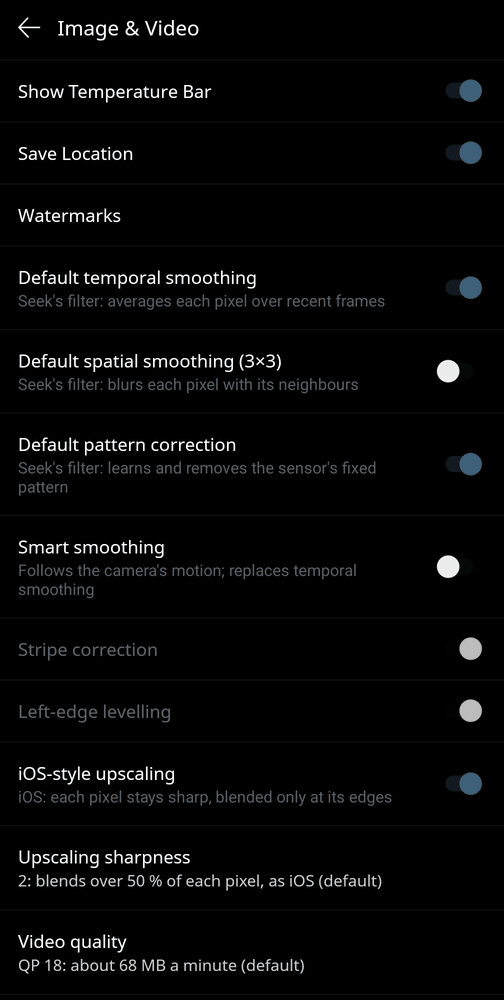
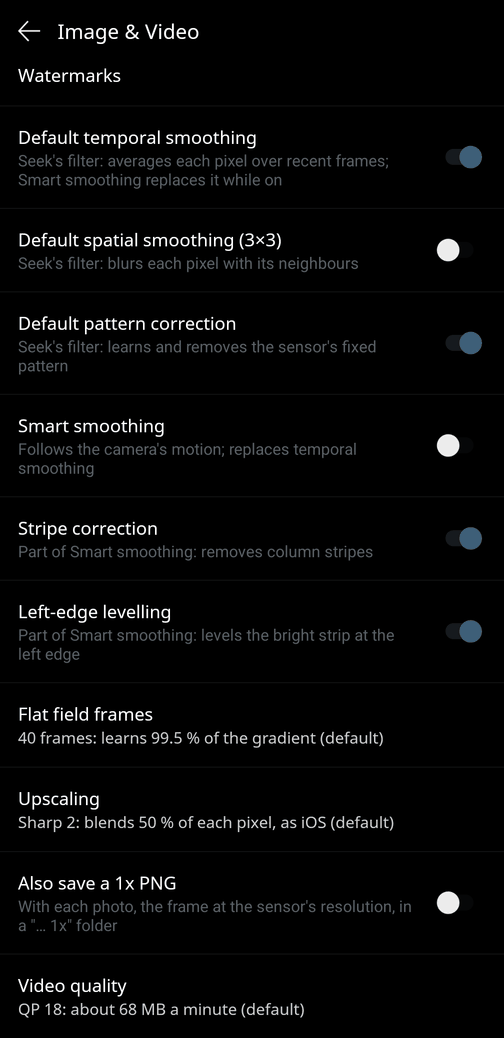
docs: the new settings, measured on the phone
sharp-scaling.md describes the Upscaling list and the kernels measured
on live-view screenshots and photos (Blocky: a clean step);
flat-field.md the frames setting, with the share learned per count and
the times on the Pixel; photo-1x.md the switch.  smoothing-settings.md
drops the greying and gets a new screenshot of the whole screen at its
defaults; README, CHANGELOG and versions.md follow.

Claude-Session: https://claude.ai/code/session_01XzKvNh8nF8GzrBgawbSF9H

diff --git a/README.md b/README.md
@@ -23,10 +23,10 @@ its own colour span.</sub>
 | | stock app | with seek-patch | patch |
 |---|---|---|---|
 | **Frame rate** | **15 fps** on screen: the live view redraws only when the phone's *own rear camera* delivers a frame, and the app runs that camera at 15 fps | **~28 fps**, every thermal frame (the Compact sends ~30) | `full_fps` |
-| **Upscaling** | plain bilinear: each sensor pixel is smeared across its whole width | iOS-style: each pixel stays sharp, blending only across the middle half; in Settings, iOS or Android and the sharpness | `sharp_scaling` |
+| **Upscaling** | plain bilinear: each sensor pixel is smeared across its whole width | iOS-style: each pixel stays sharp, blending only across the middle half; in Settings, *Smooth* (stock), *Sharp 1.5* – *8* or *Blocky* | `sharp_scaling` |
 | **Smoothing switches** | one "Image smoothing" switch, and *off* is the smoother picture: it adds a 3×3 blur, and the temporal smoothing stays on either way | in *Settings → Image & Video*, a switch per filter: temporal smoothing, 3×3 spatial smoothing, pattern correction, and Smart smoothing with its two options; the defaults are the stock picture | `smoothing_settings` (or, opt-in, `no_smoothing`: the old switch's *off* turns both smoothings off) |
 | **Photos** | JPEG, quality 100 but 4:2:0 colour; the PNG setting is hidden | lossless PNG (the app's own *Save Uncompressed*, turned on) | `png_photos` |
-| **Sensor pixels** | only the 1280×960 upscaled photo | also the frame at the sensor's resolution, PNG, no overlays, in `Pictures/Seek Thermal 1x/` | `photo_1x` |
+| **Sensor pixels** | only the 1280×960 upscaled photo | with *Also save a 1x PNG* on in Settings (off by default), also the frame at the sensor's resolution, PNG, no overlays, in `Pictures/Seek Thermal 1x/` | `photo_1x` |
 | **Video** | H.264 480×640 at a fixed 1.5 Mbit/s, **15 fps** (the phone camera's clock), mono 44.1 kHz 64 kbit/s sound | HEVC **960×1280** at constant quality (~50 dB PSNR; a *Video quality* setting), **every thermal frame**, stereo 48 kHz 256 kbit/s | `video_quality` |
 | **Microphone** | Android 11+: photos, videos and the gallery all ask for the microphone and drop the tap; after two denials none of them starts again | only starting a video asks, and the video then starts by itself; when Android won't ask again, a dialog offers the settings page or recording without sound | `mic_prompt` |
 | **Warm camera** | once the camera has warmed unevenly, every picture has a gradient (bright edges, dark middle), even of a uniform wall | a **Flat field** button: point at a uniform surface, tap, and the gradient is gone (14 °F across a wall → under 1 °F) | `flat_field` |
@@ -152,7 +152,7 @@ seek-patch doctor                       Java, the pinned apktool + uber-apk-sign
 | *(none)* | the default set — every patch but `debug_log` and `no_smoothing` — skipping those that do not apply to this version |
 | `-p NAME` | pick patches yourself (repeatable), e.g. `-p full_fps -p debug_log`; each must apply |
 | `--all` | every patch, `debug_log` included, but not `no_smoothing` (the alternative to `smoothing_settings`); each must apply |
-| `--sharpness N` | `sharp_scaling`'s blend width, 1/N of a pixel: `2` = iOS (default), `3`–`4` crisper, larger approaches visible pixels.  The default of the *Upscaling sharpness* setting |
+| `--sharpness N` | `sharp_scaling`'s blend width, 1/N of a pixel: `2` = iOS (default), `3`–`4` crisper, larger approaches visible pixels.  The default entry of the *Upscaling* setting |
 | `--video-codec hevc\|avc` | `video_quality`'s codec: HEVC (default; H.264 is the automatic fallback) or H.264 first, for players without HEVC |
 | `--video-qp N` | `video_quality`'s constant quantizer, 10 – 40: lower is better and bigger; `18` (default) ≈ 68 MB/min on a still scene.  The default of the *Video quality* setting |
 | `--side-by-side` | new package name (`<original>.patched`) and label, so it installs next to the store app; `--package`, `--label` to choose them |
@@ -228,10 +228,10 @@ also drops the manifest attributes that make Android require the splits.
 - [`smoothing_settings`](docs/smoothing-settings.md) — adds the switches to the app's own settings screen; after the app sends the smoothing preset, makes the *on* preset the base and sets the temporal, spatial and pattern-correction stages from the switches.
 - [`no_smoothing`](docs/smoothing-switch.md) (opt-in) — after the app sends the smoothing preset, clears the temporal and spatial filter stages when the switch is off.
 - [`png_photos`](docs/png-photos.md) — turns on the app's hidden *Save Uncompressed* setting.
-- [`photo_1x`](docs/photo-1x.md) — keeps the photo method's sensor-sized frame and writes it once the photo is saved.
+- [`photo_1x`](docs/photo-1x.md) — keeps the photo method's sensor-sized frame and writes it once the photo is saved, when the *Also save a 1x PNG* setting is on.
 - [`video_quality`](docs/video-quality.md) — picks and configures the encoder, hands it every thermal frame, records 48 kHz stereo.  How the QP was chosen is in there; the setting picks it per recording.
 - [`mic_prompt`](docs/mic-prompt.md) — routes the app's microphone check and request through a small helper, and starts the video once the camera runs again.
-- [`flat_field`](docs/flat-field.md) — adds the button; a tap has the library's gradient stage learn its correction map from the next 40 frames, which it otherwise does only for frames that already look flat.
+- [`flat_field`](docs/flat-field.md) — adds the button; a tap has the library's gradient stage learn its correction map from the next 40 frames (the *Flat field frames* setting: 5 – 60), which it otherwise does only for frames that already look flat.
 - [`smart_smoothing`](docs/smart-smoothing.md) — adds the button and a small native library of seek-patch's own: it hooks the image library's first filter, which then runs without its temporal smoothing, and filters its output in place.
 - [`resume_fix`](docs/resume-fix.md) — destroys the live view's EGL surface before the app drops it on pause.
 - [`debug_log`](docs/debug-log.md) — gives the SDK's stripped log methods a body.
@@ -300,7 +300,7 @@ at three times the Compact sensor's resolution, so no sensor pixel loses its col
 Patch the new version when there is one.
 
 **Smart smoothing or Seek's smoothing?**  *Smart smoothing on* replaces only the temporal filter with
-seek-patch's; *Default temporal smoothing* is greyed out meanwhile.  Spatial smoothing and pattern
+seek-patch's; *Default temporal smoothing* then has no effect.  Spatial smoothing and pattern
 correction keep their own switches: for the most detail, leave spatial smoothing off (the default)
 and turn Smart smoothing on.  With `no_smoothing` instead of `smoothing_settings`, the 3×3 blur
 follows the old switch.

diff --git a/docs/smoothing-settings.md b/docs/smoothing-settings.md
@@ -11,20 +11,21 @@ presets of the image library's filters, and *off* is the smoother picture (see
 | **Default spatial smoothing (3×3)** | off | Seek's filter (`aslpf`): blurs each pixel with its neighbours |
 | **Default pattern correction** | on | Seek's filter (`sbnuc`): learns and removes the sensor's fixed pattern |
 | **Smart smoothing** | off | seek-patch's filter: follows the camera's motion; replaces temporal smoothing |
-| **Stripe correction** | on | Smart smoothing's column-stripe correction |
-| **Left-edge levelling** | on | Smart smoothing's levelling of the strip at the screen's left edge |
+| **Stripe correction** | on | part of Smart smoothing: removes column stripes |
+| **Left-edge levelling** | on | part of Smart smoothing: levels the bright strip at the left edge |
 
 <img alt="Settings, Image &amp; Video: the switches and lists seek-patch adds, at their defaults" src="images/image-video-settings.png" width="336" align="right">
 
 "Default" marks Seek's own algorithms.  The defaults are the stock app with *Image smoothing* on, so
 nothing changes until a switch is touched.  The last three appear only when
-[`smart_smoothing`](smart-smoothing.md) is in the app too (2.2.3 – 2.3.4).  *Default temporal
-smoothing* is greyed out while Smart smoothing is on, because Smart smoothing replaces it; *Stripe
-correction* and *Left-edge levelling* are greyed out while it is off.  The *Smart smoothing* switch
+[`smart_smoothing`](smart-smoothing.md) is in the app too (2.2.3 – 2.3.4).  No switch is greyed
+out, because the app's switch class draws a disabled *on* much like *off*: *Default temporal
+smoothing* has no effect while Smart smoothing is on (Smart smoothing replaces it, and its summary
+says so), and *Stripe correction* and *Left-edge levelling* only act while it is on.  The *Smart smoothing* switch
 and the button at the top left of the camera screen are one setting: either moves the other.
-Changes apply from the next frame.  The old *Image smoothing* switch is hidden.  The screenshot also
-shows the settings of [`sharp_scaling`](sharp-scaling.md#settings) and
-[`video_quality`](video-quality.md#setting).
+Changes apply from the next frame.  The old *Image smoothing* switch is hidden.  Below them come the settings of
+[`flat_field`](flat-field.md#setting), [`sharp_scaling`](sharp-scaling.md#settings),
+[`photo_1x`](photo-1x.md) and [`video_quality`](video-quality.md#setting).
 
 ## What the library does with "Image smoothing"
 
@@ -88,7 +89,9 @@ The Image & Video fragment is found by behaviour: the one `PreferenceFragment` t
 after its `addPreferencesFromResource`, `seekpatch.Settings.screen` hides the old switch and appends
 the new ones.  The old switch is the last item of the screen in every release, so they take its
 place.  They are instances of the app's own switch class, the old switch's class, so they look like
-the rest of the screen.  Titles and summaries are English strings in the code.  No resource is read
+the rest of the screen.  The screen's list runs on under the navigation bar, which the stock screen,
+with five items, never reached; `Settings` pads the list's end by the bar's height, so the last item
+scrolls clear of it.  Titles and summaries are English strings in the code.  No resource is read
 or added, so this works with `apktool d -r` (the default) as well as with `--side-by-side`.
 
 The values live in a preferences file of seek-patch's own (`seekpatch`), not in the app's settings:
@@ -102,9 +105,9 @@ The values live in a preferences file of seek-patch's own (`seekpatch`), not in 
 and follows every change with a listener.  The per-frame code reads cached values; it never reads
 the file.
 
-The same two hooks carry the settings of [`sharp_scaling`](sharp-scaling.md) and
-[`video_quality`](video-quality.md); the first of those patches to be applied adds them
-(`patches/settings.py`).
+The same two hooks carry the settings of [`flat_field`](flat-field.md),
+[`sharp_scaling`](sharp-scaling.md), [`photo_1x`](photo-1x.md) and [`video_quality`](video-quality.md);
+the first of those patches to be applied adds them (`patches/settings.py`).
 
 ### The old switch elsewhere
 
@@ -126,7 +129,8 @@ features this way (libseekip 2.10.5.0 in 2.2.2, 2.11.3.2 in 2.2.3 – 2.3.4; 2.2
 the same preset code), as for `no_smoothing`.  The settings fragment exists in this shape from 2.0
 on.  The Smart smoothing switches need `smart_smoothing`, which starts at 2.2.3.
 
-Run on a Pixel 8 Pro with a Seek Compact, app 2.3.4 side by side: the switches, their defaults and
-greying, the hidden old switch, the button following the switch and back, the values after a
-restart, and the logged mask of each combination.  The live view stayed at 25–26 fps with each one
-(`tools/fps.sh`).
+Run on a Pixel 8 Pro with a Seek Compact, app 2.3.4 side by side: the switches and their defaults,
+the hidden old switch, the button following the switch and back, the values after a restart and
+after an update in place, and the logged mask of each combination.  The live view stayed at
+25–26 fps with each one (`tools/fps.sh`).  The screenshot is of the current build, with no switch
+greyed out.

diff --git a/docs/sharp-scaling.md b/docs/sharp-scaling.md
@@ -72,24 +72,30 @@ Image processing and temperatures are untouched.
 
 ## Settings
 
-*Settings → Image & Video* gets two items (on every release the patch supports, 2.0 – 2.3.4):
+*Settings → Image & Video* gets one list, **Upscaling** (on every release the patch supports,
+2.0 – 2.3.4), from soft to blocky:
 
-| setting | default | |
+| choice | live view and video | photo |
 |---|---|---|
-| **iOS-style upscaling** | on | on: *iOS: each pixel stays sharp, blended only at its edges*; off: *Android: smooth bilinear, each pixel blended across its width* — the stock scaling, live view and photos |
-| **Upscaling sharpness** | 2, or `--sharpness` | 1.5, 2 (iOS), 3, 4, 6, 8, each shown as the share of a pixel it blends over (2: 50 %); greyed out under Android |
+| **Smooth: Android's bilinear, blends across each pixel** | the stock sample | the stock filtered draw |
+| **Sharp 1.5** … **Sharp 8**: 1.5, 2, 3, 4, 6, 8, each shown with the share of a pixel it blends over | the sharp-bilinear shader at that sharpness | `round(N)`× nearest first (at least 2×), then the filtered draw |
+| **Sharp 2: blends 50 % of each pixel, as iOS (default)** | as above | 2× nearest first |
+| **Blocky: square pixels, no blending** | sharpness 1000: the blend is 1/1000 of a texel, far below one screen pixel | the frame drawn with an unfiltered copy of the app's `Paint` |
 
-`--sharpness N` (default 2) is where the sharpness starts, and it joins the list when it falls
-between the choices; the setting then wins.  Changes show as soon as the live view is back.  The
-values sit in seek-patch's preferences file; `seekpatch.Upscale` writes them to
-`SharpScale.sharpness` (the uniform) and `SharpScale.photoFactor` (the photo).
+`--sharpness N` (default 2) picks the default entry, and joins the list when it falls between the
+choices; the setting then wins.  Changes show as soon as the live view is back.  The value sits in
+seek-patch's preferences file (key `upscaling`: `android`, a sharpness, or `blocky`);
+`seekpatch.Upscale` writes it to `SharpScale.sharpness` (the uniform) and `SharpScale.photoFactor`
+(the photo: 1 is the stock draw, 0 the unfiltered one).
 
 Is sharpness 1 exactly bilinear?  Mathematically yes: `f` becomes the fraction of `t`, and the
 coordinate comes back unchanged.  In floating point it comes back within rounding (~10⁻⁷ of a texel
-in `highp`), not bit for bit.  So *Android* does not rely on it: at sharpness 1 or less the shader
+in `highp`), not bit for bit.  So *Smooth* does not rely on it: at sharpness 1 or less the shader
 returns the coordinate untouched, which is the stock sample exactly, with the same single shader.
 The photo then gets the stock filtered draw (factor 1).
 
 Measured on the Pixel (2.3.4, Compact) with `tools/measure_kernel.py` on live-view screenshots: the
 weight of the next texel at sub-texel position 0.81 was 0.97 at sharpness 2, 1.00 at 8, and 0.83
-with *Android* (bilinear: 0.81).
+with *Smooth* (bilinear: 0.81); after the switch to one list, 0.99, 0.85 and, with *Blocky*, a clean
+step: 0.00 up to position 0.44, 1.00 from 0.56.  Saved photos measured the same way: *Sharp 2*
+0.90 at 0.69, *Blocky* the same clean step.

diff --git a/docs/flat-field.md b/docs/flat-field.md
@@ -82,14 +82,14 @@ infrared from a warm lens or housing in front of it is not in that frame.
   feature-900 call (the hook `no_smoothing` uses), before the frame is processed.  On a tap:
   1. It logs the current detail and step against their limits (`adb logcat -s seek-patch`).
   2. It sets 30105 = 1 and remembers the update count, 30104.
-  3. Once the count has gone up by 40, it sets 30105 = 0.  That leaves (7/8)⁴⁰ ≈ 0.5 % of the old
-     map, about 1.5 s at the Compact's ~27 fps.
+  3. Once the count has gone up by 40 (the *Flat field frames* setting, below), it sets
+     30105 = 0.  That leaves (7/8)⁴⁰ ≈ 0.5 % of the old map, about 1.5 s at the Compact's ~27 fps.
 
   It does the same on the second filter's copy of the stage (+ 40000), where Mosaic cores run it;
   on other cameras that copy is idle.  The stock test takes over again afterwards, so the map
   stays as learned.  Feature 900 rewrites the filter mask every frame, but not 30105.
 - **Failure cases.**  With no frames within 2 s the toast says *No camera image*.  Five seconds
-  without 40 updates, or a reconnect (a new library handle, whose map starts empty), end the run
+  without 40 updates (for longer runs, 150 ms a frame plus one second), or a reconnect (a new library handle, whose map starts empty), end the run
   and ask for another tap.  The patch never writes to an old handle.
 - `seekpatch.SeekIP`, written by the patch, calls the app's own `seekIPsetFeature` /
   `seekIPgetFeature` wrappers, found by the native each one calls.
@@ -97,9 +97,24 @@ infrared from a warm lens or housing in front of it is not in that frame.
 The stage's output feeds the temperature readings as well as the picture, as it always has.  After
 a tap, readings off-centre lose the camera's gradient too; readings at the centre do not change.
 
+### Setting
+
+*Settings → Image & Video → Flat field frames*: how many frames one tap learns from.  The map moves
+1/8 of the way per frame, so N frames learn 1 − (7/8)ᴺ of the gradient:
+
+| frames | 5 | 10 | 15 | 20 | 30 | 40 (default) | 60 |
+|---|---|---|---|---|---|---|---|
+| learned | 49 % | 74 % | 87 % | 93 % | 98 % | 99.5 % | all |
+
+A short run is quicker and forgives a hand that moves; a second tap goes on from where the first
+stopped.  `seekpatch.FlatSettings` sets `Flat.updates`, read when a tap starts.  On the Pixel 5
+frames took 0.15 s and 60 frames 1.9 s, each from a fresh map on a warm camera; 60 left visibly less
+of the gradient at the edges than 5.
+
 Versions: 2.2.0 – 2.3.4.  The gradient features are verified in libseekip 2.10.5.0 (app 2.2.2) and
-2.11.3.2 (2.2.3 – 2.3.4), and the patch refuses older apps, like `no_smoothing`.  Source:
-[`helpers/java/seekpatch/Flat.java`](../helpers/java/seekpatch/Flat.java).
+2.11.3.2 (2.2.3 – 2.3.4), and the patch refuses older apps, like `no_smoothing`.  Sources:
+[`helpers/java/seekpatch/Flat.java`](../helpers/java/seekpatch/Flat.java),
+[`FlatSettings.java`](../helpers/java/seekpatch/FlatSettings.java).
 
 ## Other stages that look related
 

diff --git a/CHANGELOG.md b/CHANGELOG.md
@@ -9,21 +9,29 @@
   picture.  Right after the app's per-frame preset the patch makes the *on* preset the base,
   whatever the hidden old switch says, and sets the three stages from the switches; the mask is
   logged when it changes.  The Smart smoothing switch and the top-left button are one setting
-  (2.2.0 – 2.3.4).
+  (2.2.0 – 2.3.4).  No switch is ever greyed out: the app's switch draws a disabled *on* much like
+  *off*, so each summary says what depends on what instead.
 - `no_smoothing` leaves the default set: it is the opt-in alternative to `smoothing_settings`.  The
   two refuse to combine, `-p` with both is an error, and `--all` leaves `no_smoothing` out.
 - `smart_smoothing`: stripe correction and left-edge levelling can be switched at run time (a new
   JNI entry; the native libraries are rebuilt).  The button follows its stored value, so a settings
   switch moves it.
-- Settings for `sharp_scaling` (2.0 – 2.3.4): *iOS-style upscaling* (off: the stock Android
-  bilinear scaling, live view and photos) and *Upscaling sharpness* (1.5 – 8).  The shader's
-  sharpness is now a uniform; at 1 or less it returns the stock sample exactly.
+- A setting for `sharp_scaling` (2.0 – 2.3.4): *Upscaling*, one list from soft to blocky — *Smooth*
+  (the stock Android bilinear scaling, live view and photos), *Sharp 1.5* to *Sharp 8* (2 = iOS, the
+  default) and *Blocky* (square pixels; the photo is drawn unfiltered).  The shader's sharpness is
+  now a uniform; at 1 or less it returns the stock sample exactly.
+- A setting for `flat_field` (2.2.0 – 2.3.4): *Flat field frames*, how many frames a tap learns
+  from — 5, 10, 15, 20, 30, 40 (the default, as before) or 60 — each shown with the share of the
+  gradient it learns.  The run's time limit grows with the count (150 ms a frame, at least 5 s).
+- `photo_1x` becomes a setting, *Also save a 1x PNG*, **off by default**: 0.3.0 saved the 1× copy
+  with every photo.  Where a release has no settings screen for it, it still saves with every photo.
 - A setting for `video_quality` (2.1.2 – 2.3.4): *Video quality*, the QP from 14 to 28 with the size
   of each, used from the next recording.  `--sharpness` and `--video-qp` are now the settings'
   defaults.
 - Settings in the app: a shared hook after the Image & Video screen's own preferences and in the
   camera screen's `onCreate` (`patches/settings.py`, `seekpatch.Settings`); the preferences are the
-  app's own classes, the values a preferences file of seek-patch's.  `seekpatch.SeekIP` is shared by
+  app's own classes, the values a preferences file of seek-patch's.  The screen's list is padded by
+  the navigation bar, which would otherwise cover the last item.  `seekpatch.SeekIP` is shared by
   `flat_field` and `smoothing_settings`.
 
 ## 0.3.0 — 2026-10-24

diff --git a/docs/photo-1x.md b/docs/photo-1x.md
@@ -1,9 +1,10 @@
-# `photo_1x` — the sensor's own pixels, next to every photo
+# `photo_1x` — the sensor's own pixels, next to each photo
 
 **Stock:** a photo is the colorized frame scaled up to 1280×960, with the overlays (palette bar,
 temperatures, spot marker) drawn on top.
-**Patched:** the same photo, plus the frame at the sensor's resolution — 206×156 on a Compact,
-320×240 on a Compact Pro — as a lossless PNG without overlays, turned upright.
+**Patched:** with *Settings → Image & Video → Also save a 1x PNG* on (it is off by default), the
+same photo plus the frame at the sensor's resolution — 206×156 on a Compact, 320×240 on a Compact
+Pro — as a lossless PNG without overlays, turned upright.
 
 | `Pictures/Seek Thermal/img_thermal_1792780046753.png` | `Pictures/Seek Thermal 1x/img_thermal_1792780046753.png` |
 |---|---|
@@ -31,4 +32,9 @@ ignore EXIF orientation.
 Thermal+ photos store the thermal frame.  In 16:9 mode the photo is cropped; the 1× copy keeps the
 whole frame.
 
-Versions: 2.1.1 and newer.  Source: [`helpers/java/seekpatch/Photo1x.java`](../helpers/java/seekpatch/Photo1x.java).
+The switch is `seekpatch.PhotoSettings`; it sets `Photo1x.enabled`, which `capture` checks.  Where a
+release has no settings screen for it, `enabled` stays on and every photo gets its copy, as in
+0.3.0.  On the Pixel (2.3.4): off, a photo got no copy; on, the next one got its 156×206 PNG.
+
+Versions: 2.1.1 and newer.  Sources: [`helpers/java/seekpatch/Photo1x.java`](../helpers/java/seekpatch/Photo1x.java),
+[`PhotoSettings.java`](../helpers/java/seekpatch/PhotoSettings.java).

diff --git a/docs/versions.md b/docs/versions.md
@@ -48,8 +48,9 @@ the smoothing switches in Settings.
    which starts at 2.2.3.
 
 The settings in *Settings → Image & Video* come with their patches wherever those apply: upscaling
-(`sharp_scaling`) 2.0 – 2.3.4, video quality (`video_quality`) 2.1.2 – 2.3.4, Seek's filters
-(`smoothing_settings`) 2.2.0 – 2.3.4, Smart smoothing 2.2.3 – 2.3.4.  The build test checks each
+(`sharp_scaling`) 2.0 – 2.3.4, the 1x PNG (`photo_1x`) 2.1.1 – 2.3.4, video quality
+(`video_quality`) 2.1.2 – 2.3.4, Seek's filters (`smoothing_settings`) and flat-field frames
+(`flat_field`) 2.2.0 – 2.3.4, Smart smoothing 2.2.3 – 2.3.4.  The build test checks each
 section class in the built app.  Only 2.3.4 has shown them on a phone.
 
 `no_smoothing` is opt-in, the alternative to `smoothing_settings`: the build test applies every

diff --git a/docs/smart-smoothing.md b/docs/smart-smoothing.md
@@ -17,7 +17,7 @@ Video* has a **Smart smoothing** switch and, under it, **Stripe correction** and
 levelling** (both on by default; they stand for `lines` and `edge` below).  The switch and the
 button are one setting, kept in seek-patch's preferences file: `seekpatch.Smooth` follows the file
 with a listener, so turning one moves the other.  While Smart smoothing is on, *Default temporal
-smoothing* is greyed out there, as Smart smoothing replaces it.
+smoothing* has no effect, as Smart smoothing replaces it.
 
 ## What it does to the picture
 
